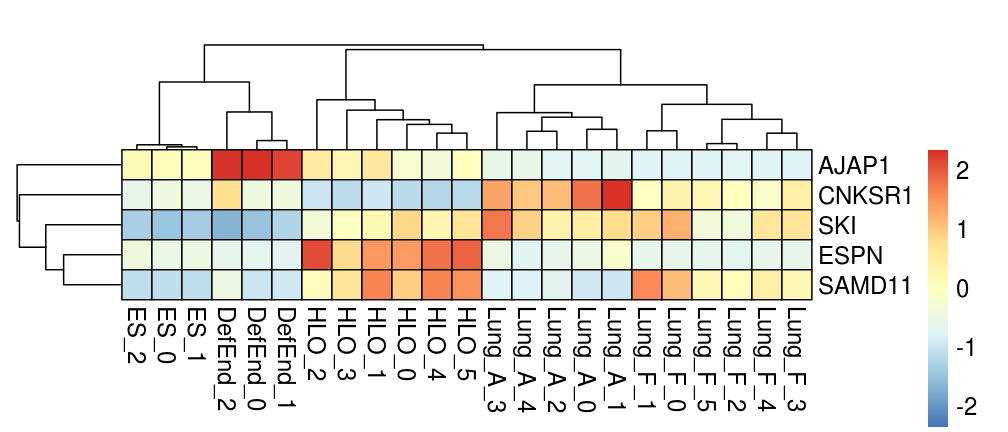
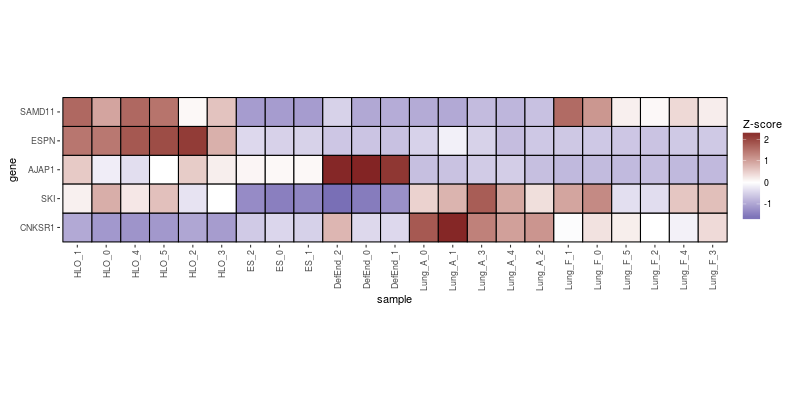
Convert SeqHeatmap() to ggplot2
- Old SeqHeatmap() retained as SeqpHeatmap()

diff --git a/README.md b/README.md
@@ -83,11 +83,24 @@ print(plot)
 Print Heatmap
 -------------
 
-``` {.r .rundoc-block rundoc-language="R" rundoc-session="*R*" rundoc-exports="both" rundoc-results="graphics" rundoc-file="heatmap.png" rundoc-eval="yes"}
-SeqHeatmap(genes, hm.name = "heatmap.png", w = 7, h = 3)
+``` {.r .rundoc-block rundoc-language="R" rundoc-session="*R*" rundoc-exports="both" rundoc-results="graphics" rundoc-file="heatmap.png" rundoc-width="800" rundoc-height="400" rundoc-eval="yes"}
+SeqHeatmap(genes)
 ```
 
 ![](heatmap.png)
+
+### Print pHeatmap
+
+This is an alternate implementation of the heatmap output using the
+library "pheatmap". This method will return high quality plots but lacks
+the flexibility of the standard ggplot2 format output returned by
+SeqHeatmap()
+
+``` {.r .rundoc-block rundoc-language="R" rundoc-session="*R*" rundoc-exports="both" rundoc-results="graphics" rundoc-file="pheatmap.png" rundoc-eval="yes"}
+SeqpHeatmap(genes, hm.name = "pheatmap.png", w = 7, h = 3)
+```
+
+![](pheatmap.png)
 
 Print boxplot showing only genes that differ significantly between "HLO" and "Lung~A~"
 --------------------------------------------------------------------------------------
